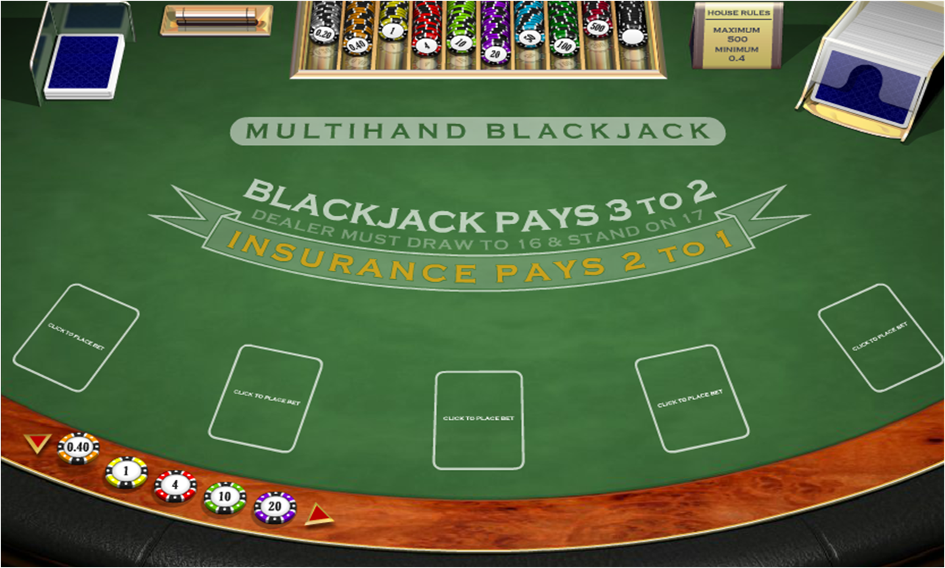
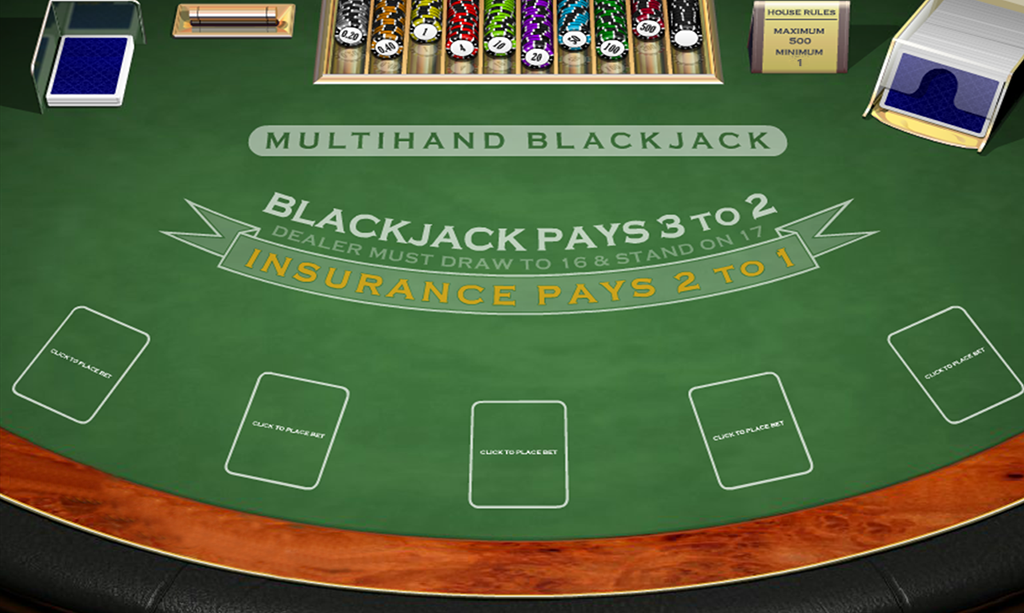
les débuts du SFML

diff --git a/src/jeuSfml.cpp b/src/jeuSfml.cpp
@@ -12,6 +12,8 @@ using namespace std;
 sfmlJeu::sfmlJeu () : jeu() {
     sf::VideoMode desktop = sf::VideoMode::getDesktopMode();
     window = new RenderWindow(desktop, "BlackJack");
+    dimx = window->getSize().x;
+    dimy = window->getSize().y;
 }
 
 void sfmlJeu::sfmlInit() {
@@ -525,7 +527,7 @@ void sfmlJeu::sfmlInit() {
     }
     else 
     {
-        sFond.setTexture(tFond);
+        rsFond.setTexture(&tFond);
     }
 
     if (!t1.loadFromFile("data/1.png")) 
@@ -618,55 +620,73 @@ sfmlJeu::~sfmlJeu ()
 void sfmlJeu::sfmlAff() 
 {
     window->clear(Color(230, 240, 255, 255)); 
+    rsFond.setSize(Vector2f(dimx,dimy));
+    window->draw(rsFond);
 
-    window->draw(sFond);
+    s1.setScale(1.75,1.75);
+    s10.setScale(1.75,1.75);
+    s100.setScale(1.75,1.75);
+    s1000.setScale(1.75,1.75);
 
     if(jeu.joueurSolo.getBudget()>=1000)
     {
-        s1.setPosition(100,200);
+        s1.setPosition(dimx/2-225,dimy-200);
         window->draw(s1);
 
-        s10.setPosition(150,1000);
+        s10.setPosition(dimx/2-75,dimy-200);
         window->draw(s10);
 
-        s100.setPosition(200,500);
+        s100.setPosition(dimx/2+75,dimy-200);
         window->draw(s100);
 
-        s1000.setPosition(250,500);
+        s1000.setPosition(dimx/2+225,dimy-200);
         window->draw(s1000);
     }
-
-    if(jeu.joueurSolo.getBudget()>=100)
+    else if(jeu.joueurSolo.getBudget()>=100)
     {
-        s1.setPosition(100,500);
+        s1.setPosition(dimx/2-150,dimy-200);
         window->draw(s1);
 
-        s10.setPosition(150,500);
+        s10.setPosition(dimx/2,dimy-200);
         window->draw(s10);
 
-        s100.setPosition(200,500);
+        s100.setPosition(dimx/2+150,dimy-200);
         window->draw(s100);
     }
-
-    if(jeu.joueurSolo.getBudget()>=10)
+    else if(jeu.joueurSolo.getBudget()>=10)
     {
-        s1.setPosition(100,500);
+        s1.setPosition(dimx/2-150,dimy-200);
         window->draw(s1);
 
-        s10.setPosition(150,500);
+        s10.setPosition(dimx/2+150,dimy-200);
         window->draw(s10);
     }
-
-    if(jeu.joueurSolo.getBudget()>=1)
+    else if(jeu.joueurSolo.getBudget()>=1)
     {
-        s1.setPosition(100,500);
+        s1.setPosition(dimx/2,dimy-200);
         window->draw(s1);
     }
 
-    // unsigned int position = 150;
-    // s1deTrefles.setPosition(position, 250);
-	// position += 260;
+
+    if(actionMiser==1)
+    {
+        afficherMainDeCarte(jeu.joueurSolo.mainJoueur);
+    }
+    //Largeur d'une carte = environ 230
+    //Hauteur d'une carte = environ 150
+
+    //Test affichage de deux cartes 
+    // unsigned int positionx = dimx/2-150;
+    // unsigned int positiony = dimy-700;
+    // s1deTrefles.setScale(1.5,1.5);
+    // s1deTrefles.setPosition(positionx, positiony);
+	// positionx += 150;
+    // positiony -= 50;
 	// window->draw(s1deTrefles);
+    // s1deTrefles.setPosition(positionx, positiony);
+    // positionx += 150;
+    // positiony -= 50;
+    // window->draw(s1deTrefles);
     
 
     // // Ecrire un titre par dessus
@@ -678,7 +698,8 @@ void sfmlJeu::sfmlAff()
 
 void sfmlJeu::afficherMainDeCarte(MainDeCarte mainJoueur)
 {
-    unsigned int position = 150;
+    unsigned int positionx = dimx/2-150;
+    unsigned int positiony = dimy-700;
 
     for (unsigned int i=0; i<mainJoueur.getNbCartes(); i++)
     {
@@ -702,7 +723,7 @@ void sfmlJeu::afficherMainDeCarte(MainDeCarte mainJoueur)
 					carte = s1deCarreau;
 				}
 			}
-			if (mainJoueur.getIemeCarte(i).getRang() == 2)
+			else if (mainJoueur.getIemeCarte(i).getRang() == 2)
 			{
 				if (mainJoueur.getIemeCarte(i).getSigne() == 1)
 				{
@@ -721,7 +742,7 @@ void sfmlJeu::afficherMainDeCarte(MainDeCarte mainJoueur)
 					carte = s2deCarreau;
 				}
 			}
-			if (mainJoueur.getIemeCarte(i).getRang() == 3)
+			else if (mainJoueur.getIemeCarte(i).getRang() == 3)
 			{
 				if (mainJoueur.getIemeCarte(i).getSigne() == 1)
 				{
@@ -740,7 +761,7 @@ void sfmlJeu::afficherMainDeCarte(MainDeCarte mainJoueur)
 					carte = s3deCarreau;
 				}
 			}
-			if (mainJoueur.getIemeCarte(i).getRang() == 4)
+			else if (mainJoueur.getIemeCarte(i).getRang() == 4)
 			{
 			    if (mainJoueur.getIemeCarte(i).getSigne() == 1)
 				{
@@ -759,7 +780,7 @@ void sfmlJeu::afficherMainDeCarte(MainDeCarte mainJoueur)
 					carte = s4deCarreau;
 				}
 			}
-			if (mainJoueur.getIemeCarte(i).getRang() == 5)
+			else if (mainJoueur.getIemeCarte(i).getRang() == 5)
 			{
                 if (mainJoueur.getIemeCarte(i).getSigne() == 1)
 				{
@@ -778,7 +799,7 @@ void sfmlJeu::afficherMainDeCarte(MainDeCarte mainJoueur)
 					carte = s5deCarreau;
 				}
 			}
-			if (mainJoueur.getIemeCarte(i).getRang() == 6)
+			else if (mainJoueur.getIemeCarte(i).getRang() == 6)
 			{
 				if (mainJoueur.getIemeCarte(i).getSigne() == 1)
 				{
@@ -797,7 +818,7 @@ void sfmlJeu::afficherMainDeCarte(MainDeCarte mainJoueur)
 					carte = s6deCarreau;
 				}
 			}
-			if (mainJoueur.getIemeCarte(i).getRang() == 7)
+			else if (mainJoueur.getIemeCarte(i).getRang() == 7)
 			{
 				if (mainJoueur.getIemeCarte(i).getSigne() == 1)
 				{
@@ -816,7 +837,7 @@ void sfmlJeu::afficherMainDeCarte(MainDeCarte mainJoueur)
 					carte = s7deCarreau;
 				}
 			}
-			if (mainJoueur.getIemeCarte(i).getRang() == 8)
+			else if (mainJoueur.getIemeCarte(i).getRang() == 8)
 			{
 				if (mainJoueur.getIemeCarte(i).getSigne() == 1)
 				{
@@ -835,7 +856,7 @@ void sfmlJeu::afficherMainDeCarte(MainDeCarte mainJoueur)
 					carte = s8deCarreau;
 				}
 			}
-			if (mainJoueur.getIemeCarte(i).getRang() == 9)
+			else if (mainJoueur.getIemeCarte(i).getRang() == 9)
 			{
 				if (mainJoueur.getIemeCarte(i).getSigne() == 1)
 				{
@@ -854,7 +875,7 @@ void sfmlJeu::afficherMainDeCarte(MainDeCarte mainJoueur)
 					carte = s9deCarreau;
 				}
 			}
-			if (mainJoueur.getIemeCarte(i).getRang() == 10)
+			else if (mainJoueur.getIemeCarte(i).getRang() == 10)
 			{
 				if (mainJoueur.getIemeCarte(i).getSigne() == 1)
 				{
@@ -873,7 +894,7 @@ void sfmlJeu::afficherMainDeCarte(MainDeCarte mainJoueur)
 					carte = s10deCarreau;
 				}
 			}
-			if (mainJoueur.getIemeCarte(i).getRang() == 11)
+			else if (mainJoueur.getIemeCarte(i).getRang() == 11)
 			{
 				if (mainJoueur.getIemeCarte(i).getSigne() == 1)
 				{
@@ -892,7 +913,7 @@ void sfmlJeu::afficherMainDeCarte(MainDeCarte mainJoueur)
 					carte = s11deCarreau;
 				}
 			}
-			if (mainJoueur.getIemeCarte(i).getRang() == 12)
+			else if (mainJoueur.getIemeCarte(i).getRang() == 12)
 			{
 				if (mainJoueur.getIemeCarte(i).getSigne() == 1)
 				{
@@ -911,7 +932,7 @@ void sfmlJeu::afficherMainDeCarte(MainDeCarte mainJoueur)
 					carte = s12deCarreau;
 				}
 			}
-			if (mainJoueur.getIemeCarte(i).getRang() == 13)
+			else if (mainJoueur.getIemeCarte(i).getRang() == 13)
 			{
 				if (mainJoueur.getIemeCarte(i).getSigne() == 1)
 				{
@@ -930,8 +951,10 @@ void sfmlJeu::afficherMainDeCarte(MainDeCarte mainJoueur)
 					carte = s13deCarreau;
 				}
 			}
-			carte.setPosition(position, 100);
-			position += 150;
+			carte.setPosition(positionx, positiony);
+            carte.setScale(1.5,1.5);
+			positionx += 150;
+            positiony -= 50;
 			window->draw(carte);
     }
 }
@@ -939,18 +962,8 @@ void sfmlJeu::afficherMainDeCarte(MainDeCarte mainJoueur)
 
 void sfmlJeu::sfmlBoucle () {
 
-    bool actionMiser = 0;
-    bool actionJouer = 0;
-    bool actionCarte = 0;
-
-    // Rect(Sprite) s1Rect = s1.getGlobalBounds();
-    // Rect(Sprite) s10Rect = s10.getGlobalBounds();
-    // Rect(Sprite) s100Rect = s100.getGlobalBounds();
-    // Rect(Sprite) s1000Rect = s1000.getGlobalBounds();
-
-    // Rect(Sprite) sRester = sRester.getGlobalBounds();
-    // Rect(Sprite) sDoublerRect = sDoubler.getGlobalBounds();
-    // Rect(Sprite) sTirerRect = sTirer.getGlobalBounds();
+    actionMiser = 0;
+    actionJouer = 0;
 
     while (window->isOpen())
     {
@@ -969,10 +982,41 @@ void sfmlJeu::sfmlBoucle () {
 					float x = Mouse::getPosition(*window).x;
 					float y = Mouse::getPosition(*window).y;
 
-                    if(s1.getGlobalBounds().contains(x,y))
+                    // si le joueur n'a pas misé 
+                    if(actionMiser==0)
                     {
-                        window->close();
-                    }	
+                            if(s1.getGlobalBounds().contains(x,y))  //on appuie sur le jeton de valeur 1 
+                            {
+                                jeu.initialisationMise('a');    //correspond pour l'instant à une mise de 100
+                                actionMiser=1;
+                            }
+                            else if(s10.getGlobalBounds().contains(x,y))  //on appuie sur le jeton de valeur 10 
+                            {
+                                jeu.initialisationMise('z');    //correspond pour l'instant à une mise de 200
+                                actionMiser=1;
+                            }
+                            else if(s100.getGlobalBounds().contains(x,y))  //on appuie sur le jeton de valeur 100 
+                            {
+                                jeu.initialisationMise('r');    //correspond pour l'instant à une mise de 500
+                                actionMiser=1;
+                            }
+                            else if(s1000.getGlobalBounds().contains(x,y))  //on appuie sur le jeton de valeur 1000 
+                            {
+                                jeu.initialisationMise('t');    //correspond pour l'instant à une mise de 1000
+                                actionMiser=1;
+                            }
+                    }
+
+                    // si le joueur a misé alors on initialise le jeu
+                    
+                    if(actionMiser==1)
+                    {
+                        jeu.initialisationJeu();
+                    }
+    
+            
+
+
 
 
             // if (event.type == Event::KeyPressed) 
@@ -998,7 +1042,7 @@ void sfmlJeu::sfmlBoucle () {
                 }
             }
 
-        //sfmlAff();
+        sfmlAff();
     }
 
     }

diff --git a/src/jeuSfml.h b/src/jeuSfml.h
@@ -164,7 +164,6 @@ private :
 
     sf::Sprite sCardBack;
     sf::Sprite sDeck;
-    sf::Sprite sFond;
     sf::Sprite s1;
     sf::Sprite s10;
     sf::Sprite s100;
@@ -172,6 +171,14 @@ private :
     sf::Sprite sTirer;
     sf::Sprite sDoubler;
     sf::Sprite sRester;
+
+    sf::RectangleShape rsFond;
+
+    unsigned int dimx;
+    unsigned int dimy;
+
+    bool actionMiser;
+    bool actionJouer;
 
     // sf::Font m_font;
     // sf::Text m_text;
